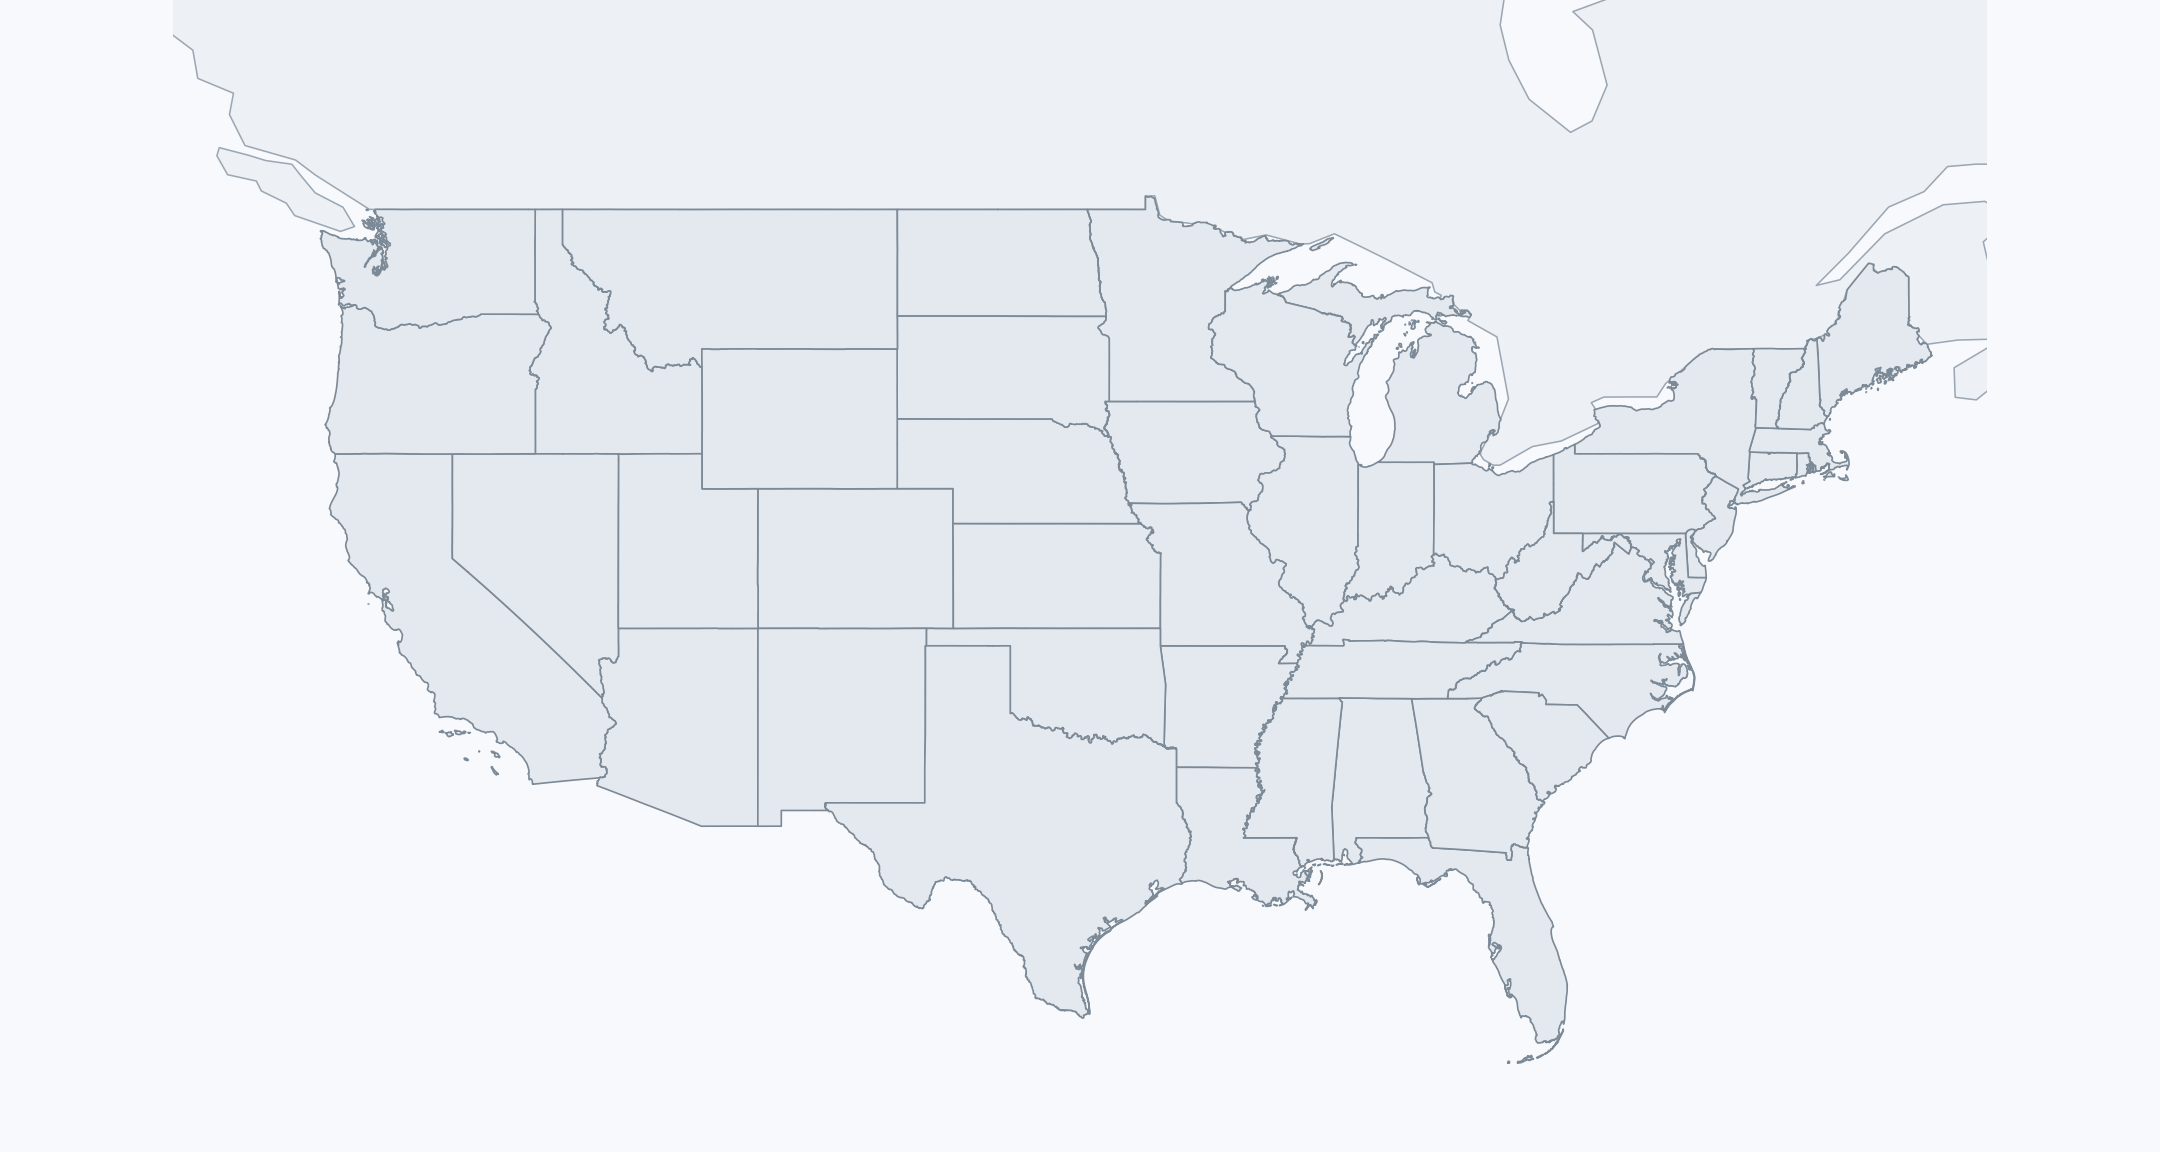
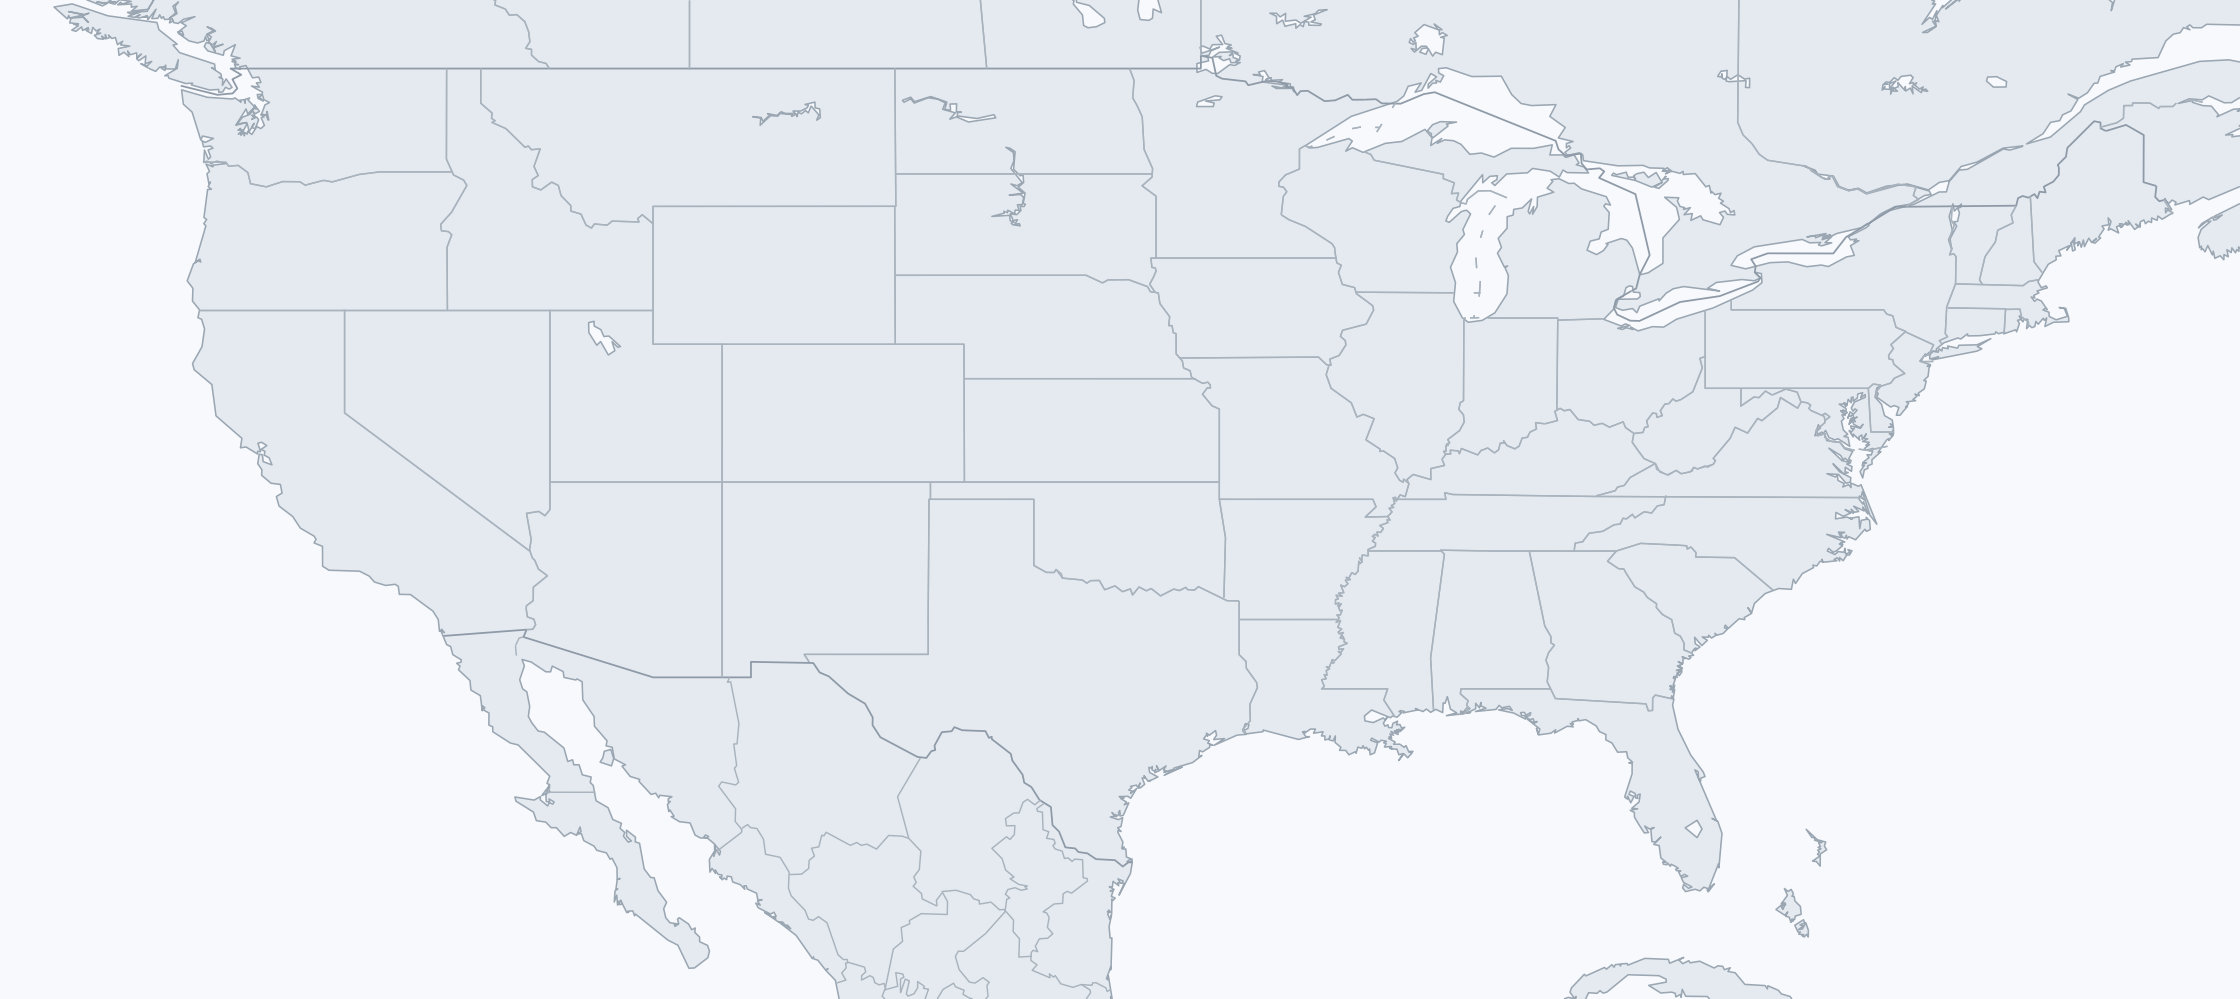
Add files via upload

diff --git a/styles.css b/styles.css
@@ -1049,3 +1049,13 @@ h1,h2{font-family:-apple-system,BlinkMacSystemFont,"SF Pro Display","Helvetica N
   .resume-project-map-detail{grid-template-columns:1fr;gap:6px;padding:18px}
   .resume-project-map-detail .eyebrow{margin-bottom:2px}
 }
+
+.resume-affiliation-list{list-style:none;margin:0;padding:0;display:grid;gap:0}
+.resume-affiliation-list li{padding:10px 0;border-bottom:1px solid var(--line);color:var(--muted);font-size:.94rem}
+.resume-affiliation-list li:first-child{padding-top:0}
+.resume-affiliation-list li:last-child{border-bottom:0;padding-bottom:0}
+.resume-project-list + .resume-project-map-wrap{margin-top:40px}
+
+.resume-project-map-detail-location-only{grid-template-columns:170px 1fr}
+.resume-project-map-detail-location-only h4{font-size:1.05rem;color:var(--text)}
+@media(max-width:620px){.resume-project-map-detail-location-only{grid-template-columns:1fr}}
